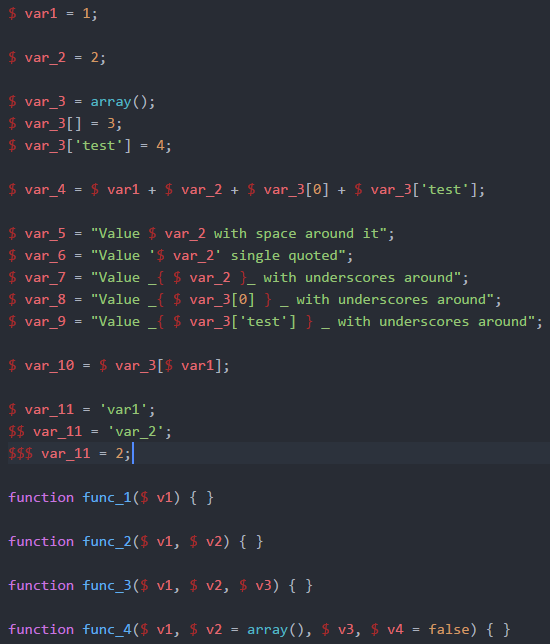
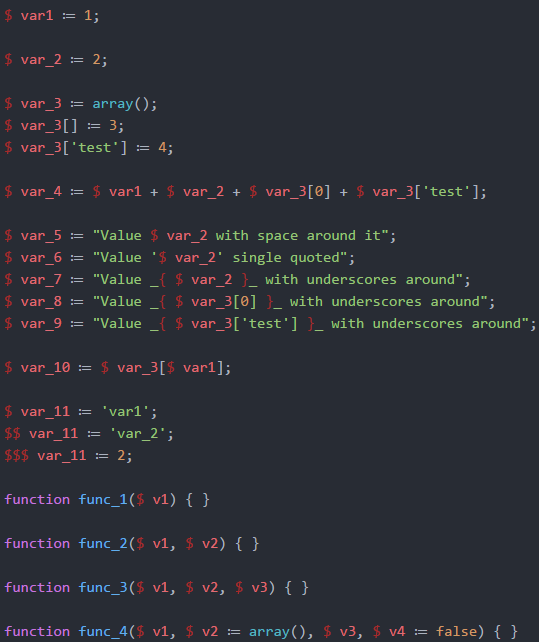
space after curly brackets; added assignment

diff --git a/style.less b/style.less
@@ -3,15 +3,42 @@
 * File -> Settings -> click on the link "your stylesheet" under "Choose a theme" title.
 */
 
+/* dollar sign */
+
+// dollar sign itself
 span.syntax--punctuation.syntax--definition.syntax--variable.syntax--php {
-  color: lime;
+  color: brown;
 }
 
+// space after dollar sign
 span.syntax--punctuation.syntax--definition.syntax--variable.syntax--php::after,
-span.syntax--variable.syntax--other.syntax--php+span.syntax--punctuation.syntax--definition.syntax--variable.syntax--php::before {
-  content: '\a0';
+// space between variable name and closing curly brackets (see: $var_7)
+span.syntax--variable.syntax--other.syntax--php+span.syntax--punctuation.syntax--definition.syntax--variable.syntax--php::before,
+// space between closing square brackets and closing curly brackets (see: $var_8 and $var_9)
+span.syntax--punctuation.syntax--section.syntax--array.syntax--end.syntax--php+span.syntax--punctuation.syntax--definition.syntax--variable.syntax--php::before {
+  content: '\a0';  //< space
 }
 
-span.syntax--variable.syntax--other.syntax--php+span.syntax--punctuation.syntax--definition.syntax--variable.syntax--php::after {
+// cancel space after right curly bracket and before string content
+// see: $var_7
+span.syntax--variable.syntax--other.syntax--php+span.syntax--punctuation.syntax--definition.syntax--variable.syntax--php::after,
+// see: $var_8 and $var_9
+span.syntax--punctuation.syntax--section.syntax--array.syntax--end.syntax--php+span.syntax--punctuation.syntax--definition.syntax--variable.syntax--php::after {
   content: '';
+}
+
+/* assignment */
+
+span.syntax--keyword.syntax--operator.syntax--assignment.syntax--php {
+  display: inline-grid;
+  grid-template-rows: 100% 0;
+  visibility: hidden;
+}
+
+span.syntax--keyword.syntax--operator.syntax--assignment.syntax--php::after {
+  content: '≔';
+  grid-column: 1;
+  grid-row: 1;
+  visibility: visible;
+  z-index: 2;
 }

diff --git a/examples.php b/examples.php
@@ -1,5 +1,7 @@
 <?php
 
+/* dollar sign examples */
+
 $var1 = 1;
 
 $var_2 = 2;
@@ -29,3 +31,13 @@ function func_2($v1, $v2) { }
 function func_3($v1, $v2, $v3) { }
 
 function func_4($v1, $v2 = array(), $v3, $v4 = false) { }
+
+/* assingment examples */
+
+$eq_one_space = 2;
+
+$eq_no_space =1;
+
+// this one is tricky, try to place cursor at the end of the line!
+$eq_new_line =
+2;

diff --git a/README.md b/README.md
@@ -10,18 +10,24 @@ Now, think about variables in PHP. They all have dollar sign prefix as their [si
 
 I do propose some alternative syntax styling which helps with visually separating dollars from variable names while keeping them visible to ease finding variables in the code.
 
-## Original styling
+## Original dollar styling
 
 ![Original Atom styling](images/before.png)
 
-## New styling
+## New dollar styling
 
 After applying new CSS rules dollar signs sligthly change their colour and become separated from variable name by a single space:
 
 ![New Atom styling](images/after.png)
 
+## Other
+
+### Assignment operator
+
+This is minor change but I really like it (maybe because I rembemer glorious times of programming in Pascal). I propose to visually change `=` to proper assignment sign `≔`. I think it looks really nice and might help to visually catch improper operator in `if` statements.
+
 ## Try this yourself!
 
 Add content of [style.less](style.less) to your own Atom stylesheet (File -> Settings -> click on the link "your stylesheet" under "Choose a theme" title), *save changes* and open [examples.php](examples.php). Then open some true production source code *not* written by you and look around, make some edits.
 
-In actual editing work you might need some time to adapt to "automatic" space after dollar and after array closing bracket. Try to delete closing square bracket in `$var_9` example. I don't know at this time how to make this more intuitive.
+In actual editing work you might need some time to adapt to "automatic" space after dollar and after array closing bracket. Try to delete closing square bracket in `$var_9` example. I don't know at this time how to make this more intuitive. There is another problem with assingment sign, see `$eq_new_line` example.
